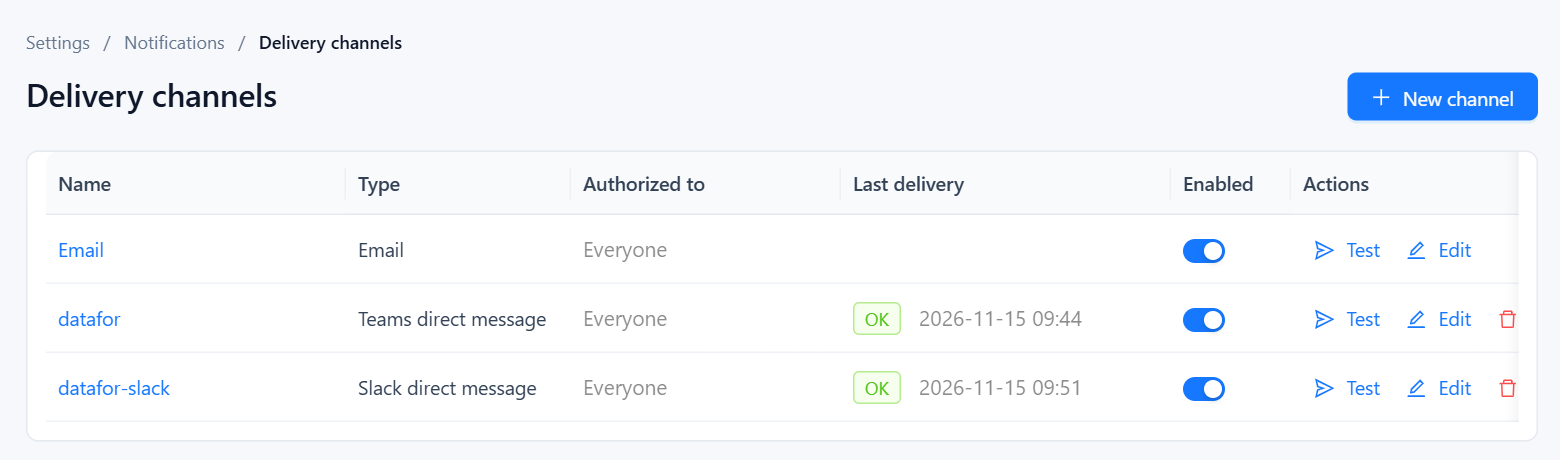
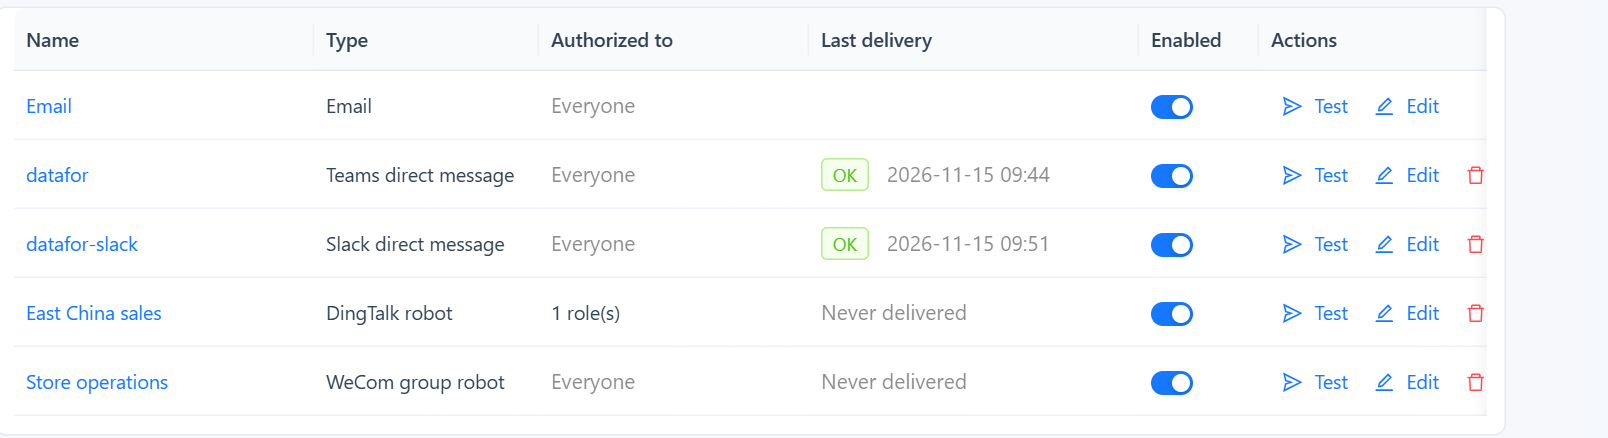
docs: 订阅与预警：新增投递通道操作指南
新页 Delivery Channels（英文）：群通道与私信通道怎么选、各类群通道在群里显示什么、
新建步骤与各平台 URL 前缀、企业微信、钉钉、飞书群机器人与 Teams Workflows、Slack Incoming Webhook
在平台一侧的建法和安全设置、通用 Webhook 的字段与签名和 JSON 载荷、谁能往群里发、
测试与重试和限速、排错表，以及“每天早上发到钉钉群”的完整例子。内容按 notify 插件代码核对。

设置投递页只留指引，通道表格和通用 Webhook 挪到新页；IM 平台、设置总览、本节概览与侧栏改链到新页；
仪表盘订阅的“发到频道”补上普通用户只见公开频道、应用可关“Let users choose channels”。
截图用两个临时英文机器人通道（假地址、未测试）截取，截完已删除。

diff --git a/docs/.vuepress/docs.ts b/docs/.vuepress/docs.ts
@@ -176,6 +176,7 @@ export const documentationNote = defineNoteConfig({
 				{ text: "Metric Alerts", link: "/documentation/Subscriptions-and-Alerts/Metric-Alerts/" },
 				{ text: "Managing Your Subscriptions and Alerts", link: "/documentation/Subscriptions-and-Alerts/Managing-Subscriptions-and-Alerts/" },
 				{ text: "Setting Up Delivery", link: "/documentation/Subscriptions-and-Alerts/Setting-Up-Delivery/" },
+				{ text: "Delivery Channels", link: "/documentation/Subscriptions-and-Alerts/Delivery-Channels/" },
 				{ text: "Monitoring and Limits", link: "/documentation/Subscriptions-and-Alerts/Monitoring-and-Limits/" },
 			],
 		},

diff --git a/docs/documentation/Subscriptions and Alerts/45 Delivery Channels.md b/docs/documentation/Subscriptions and Alerts/45 Delivery Channels.md
@@ -1,0 +1,207 @@
+---
+title: Delivery Channels
+permalink: /documentation/Subscriptions-and-Alerts/Delivery-Channels/
+description: For administrators. Add WeCom, DingTalk and Feishu group robots, Teams and Slack webhooks, generic webhooks and direct-message channels, choose who may use them, test them and fix delivery failures.
+createTime: 2026/11/15 18:00:00
+---
+
+# Delivery Channels
+
+This page is for administrators. A **delivery channel** is a destination you set up once under **Settings › Notifications › Delivery channels**; subscriptions, metric alerts and paginated report subscriptions then send to it. There are two kinds:
+
+- **Group channels** post one shared message into a group or another system: **WeCom group robot**, **DingTalk robot**, **Feishu robot**, **Teams Webhook**, **Slack Webhook** and **Generic webhook**. Users pick them under **Post to channels › Groups set up by admins**.
+- **Direct-message channels** send each person their own message through an IM app: **Slack direct message**, **Teams direct message**, **WeCom app message**, **DingTalk app message** and **Feishu app message**. People choose them under **How I receive**.
+
+Slack and Teams channels reached through an IM app are not delivery channels: users pick them directly in **Post to channels**, see [IM Platforms](/documentation/System/IM-Platforms/).
+
+## Which one to use
+
+| You want to | Use |
+| --- | --- |
+| Post to a WeCom, DingTalk or Feishu group | That group's robot. No app is needed; add one robot per group. |
+| Post to a Slack or Teams channel | If a Slack or Teams app is set up under **IM platforms**, nothing here: pick the channel in the editor. Screenshots and files then arrive without Datafor needing a public address. Otherwise a **Slack Webhook** or **Teams Webhook** per channel. |
+| Send each person a direct message | An IM app under **IM platforms**, plus its direct-message channel (see [Direct-message channels](#direct-message-channels)) |
+| Feed another system, such as a ticketing tool or a message bus | A **Generic webhook** |
+
+## What a group receives
+
+| Channel | Message | Screenshot | PDF and Excel | Open report |
+| --- | --- | --- | --- | --- |
+| **WeCom group robot** | Markdown text, cut at 4,096 bytes | A separate image message, compressed to fit 2 MB | Separate file messages, up to 20 MB each; larger files are left out | Link in the text |
+| **DingTalk robot** | Action card with the text | In the card, from a temporary link | Links in the card | Button |
+| **Feishu robot** | Card with the subject as title and the text | **View screenshot** button, a temporary link | One button per file | Button |
+| **Teams Webhook** | Adaptive card with the text and figures | In the card, from a temporary link | Links | Button |
+| **Slack Webhook** | Message with the text and figures | In the message, from a temporary link | Links | Button |
+| **Generic webhook** | JSON, see [Generic webhook](#generic-webhook) | Link in `assets` | Links in `assets` | `report.link` |
+
+Temporary links are signed, work without signing in and expire after 7 days by default. The platform's servers fetch the images, so the links must be reachable from the internet, through **Site address**. When temporary links are turned off or blocked, these channels receive the text and the **Open report** link only. See [Temporary links](/documentation/Subscriptions-and-Alerts/Setting-Up-Delivery/#temporary-links). A WeCom group robot uploads the image and files itself and needs no public address.
+
+## Add a channel
+
+1. Create the robot or webhook on the platform, as described for each type below, and copy its URL (and secret).
+2. Go to **Settings › Notifications › Delivery channels** and click **New channel**.
+3. Choose the **Type**. The dialog shows where the URL comes from.
+4. Enter a **Name**. Users see it under **Post to channels** and in run results, so name it after the group, for example *East China sales*. The editor adds the type, as in *East China sales (DingTalk robot)*.
+5. Paste the **Webhook URL**, and the **Secret** when the platform gives you one.
+6. Decide [who may use the channel](#who-can-post-to-a-group-channel).
+7. Leave **Enabled** on and click **Save**, then click **Test** on the row. The group should receive *This is a test message from the Datafor delivery channel "Name".*
+
+![New channel dialog for a DingTalk robot with setup instructions, Name, Webhook URL, Secret, Available to everyone, Authorized users and Authorized roles](./images/delivery-channel-new.png)
+
+Users who may post to the channel then find it in the subscription and alert editors, under **Post to channels › Groups set up by admins**:
+
+![The Post to channels list open in the Subscribe dialog, with Groups set up by admins expanded to East China sales (DingTalk robot) and Store operations (WeCom group robot)](./images/post-to-channels-groups.png)
+
+Datafor checks only the form of the URL when you save:
+
+| Type | The URL must start with |
+| --- | --- |
+| WeCom group robot | `https://qyapi.weixin.qq.com/cgi-bin/webhook/send?key=` |
+| DingTalk robot | `https://oapi.dingtalk.com/robot/send?access_token=` |
+| Feishu robot | `https://open.feishu.cn/open-apis/bot/v2/hook/`, or `https://open.larksuite.com/open-apis/bot/v2/hook/` for Lark |
+| Teams Webhook | `https://` on `*.logic.azure.com`, `*.powerautomate.com`, `*.webhook.office.com` or `flow.microsoft.com` |
+| Slack Webhook | `https://hooks.slack.com/` |
+| Generic webhook | `http://` or `https://` |
+
+The URL is the credential: anyone who has it can post to the group. It is stored encrypted and shown masked; when you edit a channel, leave a masked field unchanged to keep its value.
+
+## WeCom group robot
+
+1. In the WeCom group (desktop app), open the group settings, choose **Group robots**, then **Add robot** and create a new robot.
+2. Copy its **Webhook** address.
+3. In Datafor, choose **WeCom group robot** and paste it into **Webhook URL**. There is no secret.
+
+A WeCom robot accepts about 20 messages a minute. One subscription run sends up to three kinds of message to the group: the text, the screenshot, and one message per file.
+
+## DingTalk robot
+
+1. In the DingTalk group, open **Group settings › Group assistant › Add robot**, and choose **Custom** (the robot added by webhook).
+2. Choose a security setting:
+   - **Sign** (recommended). Copy the secret, which starts with `SEC`, into **Secret**. Datafor signs every message with it.
+   - **Custom keywords.** DingTalk rejects any message that does not contain one of the keywords. The test message always contains *Datafor*, but subscription and alert messages contain only what the message templates produce. Add the keyword to the message body of both templates under **Settings › Notifications › Subscriptions & alerts › Settings › Message templates**, or **Test** succeeds while real deliveries fail.
+   - **IP address range.** Enter the public address from which the Datafor server reaches the internet.
+3. Copy the **Webhook** address and finish.
+4. In Datafor, choose **DingTalk robot**, paste the webhook into **Webhook URL** and, for **Sign**, the secret into **Secret**.
+
+A DingTalk robot accepts 20 messages a minute; when exceeded, DingTalk refuses its messages for a while. Datafor sends at most 18 a minute per channel.
+
+## Feishu robot
+
+1. In the Feishu group, open **Settings › Group bots › Add bot** and choose **Custom bot**.
+2. Copy the webhook address.
+3. Choose a security setting: **Signature verification** (recommended; copy the secret into **Secret**), **Custom keywords** (same caution as for DingTalk), or an **IP whitelist** with the Datafor server's public outgoing address.
+4. In Datafor, choose **Feishu robot**, paste the webhook and, with signature verification, the secret.
+
+Feishu checks the signature against the time it was made, so the Datafor server's clock must be correct.
+
+## Teams Webhook
+
+Use this only when no Teams app is set up under **IM platforms**; with an app, users pick Teams channels directly and the screenshot needs no public address.
+
+1. In Teams, open the channel, choose **⋯ › Workflows**, and pick the template **Post to a channel when a webhook request is received**.
+2. Name the workflow, confirm the team and channel, and click **Add workflow**.
+3. Copy the URL it shows.
+4. In Datafor, choose **Teams Webhook** and paste the URL.
+
+URLs of the old Office 365 *Incoming Webhook* connector, which Microsoft has retired, do not work; create a workflow instead. Treat the workflow URL as a password.
+
+## Slack Webhook
+
+Use this only when no Slack app is set up under **IM platforms**; with an app, users pick Slack channels directly, and screenshots and files are uploaded.
+
+1. At `api.slack.com/apps`, create an app for your workspace (or open an existing one) and open **Incoming Webhooks**.
+2. Turn on **Activate Incoming Webhooks**, click **Add New Webhook to Workspace**, pick the channel and allow it.
+3. Copy the `https://hooks.slack.com/…` URL. Each URL posts to one channel.
+4. In Datafor, choose **Slack Webhook** and paste the URL.
+
+## Generic webhook
+
+![New channel dialog for a Generic webhook with URL, Method POST, Headers and Secret](./images/delivery-channel-webhook.png)
+
+| Field | Use |
+| --- | --- |
+| **URL** | Your endpoint, `http://` or `https://` |
+| **Method** | Leave it at **POST**; messages are sent as `POST`. |
+| **Headers** | Extra request headers, one `Name: Value` per line, for example `Authorization: Bearer …` |
+| **Secret** | Optional. With a secret, the `X-Datafor-Signature` header carries `sha256=` followed by the hex HMAC-SHA256 of the raw request body, keyed with the secret. Verify it before trusting the message. |
+
+The body is JSON with `Content-Type: application/json`. A subscription delivery looks like this:
+
+```json
+{
+  "event": "subscription.delivered",
+  "sentAt": "2026-11-16T00:00:05Z",
+  "subscription": { "id": "sub_01…", "name": "Retail Operations Overview EN · Weekly on Mon at 08:00", "owner": "admin" },
+  "report": { "path": "/public/demo/Retail Operations Overview EN.datafor", "title": "Retail Operations Overview EN", "link": "https://bi.example.com/datafor/…" },
+  "recipient": { "kind": "channel" },
+  "filters": { "Region": "East China", "Year": "2026" },
+  "summary": [ { "title": "Net Sales", "formatted": "5.09M" } ],
+  "insight": { "level": "standard", "markdown": "…" },
+  "assets": [ { "kind": "png", "label": "View screenshot", "url": "https://…", "bytes": 482113, "expiresAt": "2026-11-23T00:00:05Z" } ],
+  "runId": "run_01…"
+}
+```
+
+An alert sends `"event": "alert.fired"` or `"alert.recovered"` with `alert` (`id`, `name`, `owner`, `severity`, `metric`), `outcome`, `evaluation` (period, value, comparison, matched conditions, members), `filters`, `condition`, and the AI analysis when there is one. **Test** sends `"event": "channel.test"` with a `message`. Read the event from the body's `event` field.
+
+Answer with any 2xx status. Other answers count as failures; 5xx and 429 are retried as described [below](#test-health-and-failures). Datafor waits 10 seconds for an answer.
+
+## Direct-message channels
+
+- **Slack and Teams.** Saving a Slack or Teams app under **IM platforms** creates its **Slack direct message** or **Teams direct message** channel; there is nothing to add here.
+- **WeCom, DingTalk and Feishu.** Click **New channel**, choose **WeCom app message**, **DingTalk app message** or **Feishu app message**, and pick the **IM app**. The list is empty until an app for that platform exists under **IM platforms**.
+
+Every user then sees the channel under **My account › Subscriptions & alerts › How I receive**, marked **Linked** or **Not linked**. A person receives direct messages only once their account is linked to the app; see [How people get linked](/documentation/System/IM-Platforms/#how-people-get-linked). The default for people who never chose is set by **Default delivery**, see [Setting Up Delivery](/documentation/Subscriptions-and-Alerts/Setting-Up-Delivery/#defaults-for-everyone). The availability settings below apply only to group channels.
+
+## Who can post to a group channel
+
+- **Available to everyone**: every signed-in user who can create subscriptions or alerts sees the channel under **Post to channels**.
+- Otherwise, only the **Authorized users** and the members of the **Authorized roles**. With nobody authorized, the **Authorized to** column shows *Nobody authorized* and only administrators can use the channel.
+- Administrators can always use every channel. Readers never see group channels: they can only subscribe for themselves.
+
+Authorize with care: a message posted to a group is rendered with the permissions of the person who created the subscription or alert, and everyone in the group reads it.
+
+## Test, health and failures
+
+![Delivery channels list: the built-in Email channel, the datafor Teams and datafor-slack Slack direct-message channels with their last delivery OK, the East China sales DingTalk robot authorized to 1 role and the Store operations WeCom group robot authorized to everyone, both never delivered; each row has the Enabled switch and Test, Edit and Delete](./images/delivery-channels.png)
+
+- **Test** sends the test message and shows the result, with the platform's own error text when it fails. It does not change **Last delivery**.
+- **Last delivery** shows whether the most recent real message went through, and when; a failure shows the error, in full when you hover it.
+- **Retries.** A delivery that fails for a reason that may pass (timeout, platform busy, rate limit) is retried twice, after 10 seconds and after 1 minute. Errors such as a wrong signature are not retried.
+- **Repeated failures.** After 3 failed deliveries in a row, the row shows a **×3** tag (*Failed 3 times in a row; no longer retried*): each delivery is then tried once, without retries, until one succeeds. Fix the channel and run **Test**, then run an affected subscription.
+- **Rate limit.** Datafor sends at most 18 messages a minute to each channel and queues the rest. A message that waits more than 2 minutes fails with *Channel rate limit; queued too long*. Spread subscriptions that post to the same group over different times.
+- **Turning a channel off** with **Enabled** stops all messages to it; runs record *Channel missing or disabled* for that destination.
+- **Deleting** is refused while subscriptions or alerts still post to the channel; the message says how many. Remove the channel from them first.
+
+The built-in **Email** channel uses the mail server and cannot be deleted.
+
+## Troubleshooting
+
+| Test or run shows | Cause | What to do |
+| --- | --- | --- |
+| The URL is refused when you save | It does not start with the platform's address (see the table under [Add a channel](#add-a-channel)) | Copy the complete webhook address again |
+| *The endpoint did not respond in time*, *Connecting to the endpoint timed out*, *The endpoint refused the connection* | The Datafor server cannot reach the platform | Allow outgoing HTTPS from the server to the platform, or configure the proxy |
+| DingTalk or Feishu error mentioning the **sign** or **signature** | The secret is wrong or missing, or the server clock is off | Paste the secret again; check the server time |
+| DingTalk or Feishu error mentioning **keywords** | Keyword security is on and the message lacks the keyword | Add the keyword to the message templates, or switch the robot to signing |
+| DingTalk or Feishu error mentioning the **IP** or **whitelist** | The robot accepts only listed addresses | Add the server's public outgoing address to the robot |
+| WeCom error about an invalid webhook | The robot was removed from the group, or the key changed | Create the robot again and update the URL |
+| The message arrives without the screenshot (DingTalk, Feishu, Teams Webhook, Slack Webhook) | Temporary links are off or blocked, or the site address is not reachable from the internet | Check **Temporary links** on the **Overview** tab and the site address |
+| The screenshot or file link answers *link expired or invalid* | The link is older than **Link validity** | Open the report instead, or raise **Link validity** (at most 30 days) |
+| *Channel rate limit; queued too long* | Too many messages to one group at the same time | Spread the schedules |
+| *Channel missing or disabled* | The channel was turned off or deleted | Turn it on, or remove it from the subscription |
+
+## Example: a dashboard in a DingTalk group every morning
+
+1. In the DingTalk group *East China sales*, add a custom robot named *Datafor* with **Sign**, and copy the webhook and the secret.
+2. Under **Delivery channels**, click **New channel**, choose **DingTalk robot**, name it *East China sales*, paste the webhook and the secret, and add the role *East China managers* to **Authorized roles**. Save, then **Test**: the group shows the test message.
+3. On the **Overview** tab of **Subscriptions & alerts**, check that **Temporary links** is **Available**, so the screenshot shows in the card.
+4. A member of *East China managers* opens the dashboard, sets **Region** to *East China*, clicks **Subscribe**, adds *East China sales (DingTalk robot)* under **Post to channels › Groups set up by admins**, sets **When** to **Workdays** at 08:00 and saves.
+5. To see the result without waiting, they click **Run now** in the subscription list. **Send me a test** does not post to channels.
+
+The group's card shows the dashboard as that member sees it, because channel messages use the creator's permissions.
+
+## Related topics
+
+- [Setting Up Delivery](/documentation/Subscriptions-and-Alerts/Setting-Up-Delivery/)
+- [IM Platforms](/documentation/System/IM-Platforms/)
+- [Subscribing to a Dashboard](/documentation/Subscriptions-and-Alerts/Dashboard-Subscriptions/)

diff --git a/docs/documentation/Subscriptions and Alerts/40 Setting Up Delivery.md b/docs/documentation/Subscriptions and Alerts/40 Setting Up Delivery.md
@@ -19,7 +19,7 @@ This page is for administrators. Everything here is under **Settings › Notific
 | Temporary links | A rule in the platform security file, see [below](#temporary-links) | DingTalk, Feishu, webhook, Slack Webhook and Teams Webhook messages carry no images or files |
 | AI service and budgets | [AI service](/documentation/AI-Agent/AI-Feature/); budgets on the [Settings tab](/documentation/Subscriptions-and-Alerts/Monitoring-and-Limits/#settings-tab) | No AI brief in subscriptions, no AI analysis in alerts |
 | IM apps | **Settings › Notifications › IM platforms**, see [IM Platforms](/documentation/System/IM-Platforms/) | No direct messages, no Slack or Teams channels |
-| Group robots and webhooks | **Settings › Notifications › Delivery channels** | No WeCom, DingTalk or Feishu group messages, no webhooks |
+| Group robots and webhooks | **Settings › Notifications › Delivery channels**, see [Delivery Channels](/documentation/Subscriptions-and-Alerts/Delivery-Channels/) | No WeCom, DingTalk or Feishu group messages, no webhooks |
 | System time zone | **Subscriptions & alerts › Settings** | Times follow the server's zone, which may not be your business zone |
 
 Check the result on the **Overview** tab of **Subscriptions & alerts**: the status line shows the render service, temporary links and the scheduler. See [Monitoring and Limits](/documentation/Subscriptions-and-Alerts/Monitoring-and-Limits/).
@@ -77,56 +77,11 @@ The links must be reachable from the IM platform's servers: a server that only h
 **Settings › Notifications › IM platforms** connects a WeCom, DingTalk, Feishu, Slack or Microsoft Teams app to Datafor. One app serves several purposes: sign-in from the IM, directory sync, asking the AI assistant in chat, and delivery. Creating the apps, the addresses to enter in each platform and linking people are described in [IM Platforms](/documentation/System/IM-Platforms/). For subscriptions and alerts an app provides:
 
 - **Direct messages** to each person. Saving a Slack or Teams app creates its **Slack direct message** or **Teams direct message** channel. For WeCom, DingTalk and Feishu, create a delivery channel of type **WeCom app message**, **DingTalk app message** or **Feishu app message** and pick the app. From then on every user sees it under **How I receive**. People must be linked to the app: through directory sync, by opening Datafor from the IM app once, or by an administrator with **IM accounts** on the user's row under **Users**. Slack and Teams also match people by email address.
-- **Slack and Teams channels**, which users pick directly in **Post to channels** from the app's channel list. No delivery channel is needed. For a private Slack channel, invite the bot into it first. Teams lists standard channels and installs the app into the team when the subscription is saved.
+- **Slack and Teams channels**, which users pick directly in **Post to channels** from the app's channel list. No delivery channel is needed. Other users than administrators see an app's public channels only while **Let users choose channels** is on for that app (the default); private channels are for administrators only, and a private Slack channel must invite the bot first. Teams lists standard channels and installs the app into the team when the subscription is saved.
 
 ## Delivery channels
 
-**Settings › Notifications › Delivery channels** lists the destinations that subscriptions and alerts can use besides Slack and Teams channels.
-
-![Delivery channels: the built-in Email channel and the datafor Teams direct message and datafor-slack Slack direct message channels, each available to everyone, with last delivery OK, the Enabled switch and Test, Edit and Delete](./images/delivery-channels.png)
-
-The built-in **Email** channel uses the mail server and cannot be deleted. **New channel** adds one of these types:
-
-| Type | Where the URL or credentials come from |
-| --- | --- |
-| **WeCom group robot** | In the WeCom group: **Group settings › Group robots › Add robot**; paste the webhook URL. |
-| **DingTalk robot** | In the DingTalk group: **Group settings › Group assistant › Add robot › Custom**. Prefer the **Sign** security option and paste its secret; without a secret the robot must use keyword or IP allow-list security. |
-| **Feishu robot** | In the Feishu group: **Settings › Group bots › Add bot › Custom bot**. If **Signature verification** is on, paste the secret. |
-| **Teams Webhook** | In the Teams channel: **Workflows › Post to a channel when a webhook request is received**; paste the URL it generates. |
-| **Slack Webhook** | In your Slack app, turn on **Incoming Webhooks**, pick the channel and paste the `https://hooks.slack.com/…` URL. |
-| **Generic webhook** | Your own endpoint, see [below](#generic-webhook). |
-| **… direct message**, **… app message** | An app from **IM platforms**; delivers to each person, see [IM apps](#im-apps). |
-
-![New channel dialog for a DingTalk robot with setup instructions, Name, Webhook URL, Secret, Available to everyone, Authorized users and Authorized roles](./images/delivery-channel-new.png)
-
-Webhook URLs and secrets are credentials; they are stored encrypted and shown masked. When editing, leave a masked field unchanged to keep its value.
-
-**Who can use a group channel.** Turn on **Available to everyone**, or list **Authorized users** and **Authorized roles**. Only they see the channel under **Post to channels**; administrators can always use it, and Readers never can. Remember that messages posted to a channel are rendered with the permissions of the person who created the subscription or alert.
-
-**Test** posts a short test message. **Last delivery** shows whether the most recent message went through. A channel used by a subscription or alert cannot be deleted; the error tells you how many use it. Robots are limited to 18 messages per minute each, below the platforms' own limit of 20, and messages over the limit wait in a queue.
-
-### Generic webhook
-
-Datafor sends an HTTP `POST` (or the **Method** you set) with a JSON body to the **URL**, adding any **Headers** you list, one `Name: Value` per line, for example an `Authorization` header. With a **Secret**, the `X-Datafor-Signature` header carries `sha256=` followed by the hex HMAC-SHA256 of the raw body, keyed with the secret; verify it before trusting the message. A response other than 2xx counts as a failure and is retried for 5xx and 429.
-
-A subscription delivery looks like this:
-
-```json
-{
-  "event": "subscription.delivered",
-  "sentAt": "2026-11-16T00:00:05Z",
-  "subscription": { "id": "sub_01…", "name": "Retail Operations Overview EN · Weekly on Mon at 08:00", "owner": "admin" },
-  "report": { "path": "/public/demo/Retail Operations Overview EN.datafor", "title": "Retail Operations Overview EN", "link": "https://bi.example.com/datafor/…" },
-  "recipient": { "kind": "channel" },
-  "filters": { "Region": "East China", "Year": "2026" },
-  "summary": [ { "title": "Net Sales", "formatted": "5.09M" } ],
-  "insight": { "level": "standard", "markdown": "…" },
-  "assets": [ { "kind": "png", "label": "View screenshot", "url": "https://…", "bytes": 482113, "expiresAt": "2026-11-23T00:00:05Z" } ],
-  "runId": "run_01…"
-}
-```
-
-An alert sends `"event": "alert.fired"` or `"alert.recovered"` with `alert` (`id`, `name`, `owner`, `severity`, `metric`), `outcome`, `evaluation` (period, value, comparison, matched conditions, members), `filters`, `condition` and the AI analysis when there is one. **Test** sends `"event": "channel.test"`. Read the event from the body's `event` field.
+**Settings › Notifications › Delivery channels** holds the group robots (WeCom, DingTalk, Feishu), the Teams and Slack webhooks, generic webhooks and the direct-message channels of IM apps, and decides who may post to each group. How to create each one on its platform, what a group receives, testing and troubleshooting are in [Delivery Channels](/documentation/Subscriptions-and-Alerts/Delivery-Channels/).
 
 ## Defaults for everyone
 

diff --git a/docs/documentation/System/52 IM Platforms.md b/docs/documentation/System/52 IM Platforms.md
@@ -25,7 +25,7 @@ What an app can do depends on the platform:
 | Asking questions and chat commands | Direct messages to the app | Direct messages and @ in groups | Direct messages and @ in groups | Direct messages and @ in channels, needs the App-Level Token | — |
 | Datafor must be reachable from the internet | Yes | Only in Callback mode | Only in Callback mode | No | No |
 
-Group robots and webhooks that only post to one group do not need an app; they are delivery channels, see [Setting Up Delivery](/documentation/Subscriptions-and-Alerts/Setting-Up-Delivery/#delivery-channels).
+Group robots and webhooks that only post to one group do not need an app; they are delivery channels, see [Delivery Channels](/documentation/Subscriptions-and-Alerts/Delivery-Channels/).
 
 ## Before you start
 
@@ -141,7 +141,7 @@ The app is ready when the editor shows *The app package is in your organization'
 ### Direct messages and channels
 
 - **Slack and Teams.** Saving a new app also creates its direct-message delivery channel (**Slack direct message** or **Teams direct message**), so people can choose it under **How I receive** right away. **Let users choose channels** (on by default) lets everyone who can create subscriptions and alerts pick the app's public channels in **Post to channels**; when off, only administrators can. Private channels are always for administrators only, and a private Slack channel must invite the bot first. **Destinations** in the editor lists the channels that subscriptions and alerts send to, who uses them and the last delivery; to stop sending to a channel, disable or edit those subscriptions and alerts.
-- **WeCom, DingTalk and Feishu.** Create a delivery channel of type **WeCom app message**, **DingTalk app message** or **Feishu app message** and choose the app, see [Setting Up Delivery](/documentation/Subscriptions-and-Alerts/Setting-Up-Delivery/#im-apps).
+- **WeCom, DingTalk and Feishu.** Create a delivery channel of type **WeCom app message**, **DingTalk app message** or **Feishu app message** and choose the app, see [Setting Up Delivery](/documentation/Subscriptions-and-Alerts/Delivery-Channels/#direct-message-channels).
 
 ## Addresses to enter in the platform
 

diff --git a/docs/documentation/Subscriptions and Alerts/05 Understanding Subscriptions and Alerts.md b/docs/documentation/Subscriptions and Alerts/05 Understanding Subscriptions and Alerts.md
@@ -63,7 +63,7 @@ The **Subscribe** button and **Set alert** appear once the subscriptions and ale
 | Screenshots, PDF, Excel, figures and the AI brief | The render service, installed with the AI Agent. Without it a subscription still sends its message with the **Open report** link, but none of these. Alerts do not need it. |
 | AI brief and AI analysis of alerts | The AI extension and a configured AI service, plus a daily budget above 0 |
 | IM direct messages and Slack or Teams channels | An app under **Settings › Notifications › IM platforms**, and people linked to it |
-| Group robots and webhooks | A channel under **Settings › Notifications › Delivery channels** |
+| Group robots and webhooks | A channel under **Settings › Notifications › Delivery channels**, see [Delivery Channels](/documentation/Subscriptions-and-Alerts/Delivery-Channels/) |
 | Links that work outside the server | **Settings › Access & Integration › Site address** set to the address people use |
 
 Schedules, relative dates and alert periods all use one **system time zone** set by the administrator. Editors show the next run in that zone and add the offset, such as *(UTC+08:00)*, when your browser is in a different one.
@@ -74,4 +74,5 @@ Schedules, relative dates and alert periods all use one **system time zone** set
 - [Metric Alerts](/documentation/Subscriptions-and-Alerts/Metric-Alerts/)
 - [Managing Your Subscriptions and Alerts](/documentation/Subscriptions-and-Alerts/Managing-Subscriptions-and-Alerts/)
 - [Setting Up Delivery](/documentation/Subscriptions-and-Alerts/Setting-Up-Delivery/) (administrators)
+- [Delivery Channels](/documentation/Subscriptions-and-Alerts/Delivery-Channels/) (administrators)
 - [Monitoring and Limits](/documentation/Subscriptions-and-Alerts/Monitoring-and-Limits/) (administrators)

diff --git a/docs/documentation/System/01 Settings Overview.md b/docs/documentation/System/01 Settings Overview.md
@@ -20,7 +20,7 @@ Administrators open **Settings** (gear icon) in the left navigation. Pages are g
 | | **Cross-origin access (CORS)** | Allow other sites to call the server from the browser, for example the SDK | [Cross-Origin Access (CORS)](/documentation/System/CORS/) |
 | **Notifications** | **Email** | Set the SMTP server for subscriptions and alerts, password-reset and registration codes, and upload approval results | [Mail Server Configuration](/documentation/System/Mail-Server-Configuration/) |
 | | **IM platforms** | Connect WeCom, DingTalk, Feishu, Slack or Microsoft Teams apps for sign-in, directory sync, asking in chat and message delivery | [IM Platforms](/documentation/System/IM-Platforms/) |
-| | **Delivery channels** | Group robots, webhooks and direct-message channels for subscriptions and alerts, and who may use them | [Setting Up Delivery](/documentation/Subscriptions-and-Alerts/Setting-Up-Delivery/#delivery-channels) |
+| | **Delivery channels** | Group robots, webhooks and direct-message channels for subscriptions and alerts, and who may use them | [Delivery Channels](/documentation/Subscriptions-and-Alerts/Delivery-Channels/) |
 | | **Subscriptions & alerts** | Status, everyone's subscriptions and alerts, run history, time zone, default delivery, quotas and message templates | [Monitoring and Limits](/documentation/Subscriptions-and-Alerts/Monitoring-and-Limits/) |
 | **Data** | **Database drivers** | Upload JDBC drivers | [JDBC Driver Management](/documentation/Datasource/JDBC-Driver-Management/) |
 | | **Query engine** | Query limits and display of special values | [Query Engine](/documentation/System/Query-Engine/) |

diff --git a/docs/documentation/Subscriptions and Alerts/10 Subscribing to a Dashboard.md b/docs/documentation/Subscriptions and Alerts/10 Subscribing to a Dashboard.md
@@ -30,9 +30,11 @@ A subscription can address up to 50 people by default, roles counted after expan
 
 Adds one shared message in a group chat. The list is a tree:
 
-- **Slack · *app name***: the channels of the Slack app. A private channel appears only after you invite the Datafor bot into it.
+- **Slack · *app name***: the public channels of the Slack app. Private channels are listed for administrators only, after the Datafor bot has been invited into them.
 - **Microsoft Teams · *app name***: teams, and under each team its standard channels. Datafor installs the app into the team when you save.
-- **Groups set up by admins**: WeCom, DingTalk and Feishu group robots and webhooks that an administrator has created and authorized for you.
+- **Groups set up by admins**: WeCom, DingTalk and Feishu group robots and webhooks that an administrator has created and authorized for you, see [Delivery Channels](/documentation/Subscriptions-and-Alerts/Delivery-Channels/).
+
+An administrator can turn off **Let users choose channels** for a Slack or Teams app; its channels are then listed for administrators only.
 
 ![The Post to channels tree open, with Slack · datafor-slack collapsed, Microsoft Teams · datafor expanded to its teams and the General channel, and Groups set up by admins](./images/subscribe-channels.png)
 
